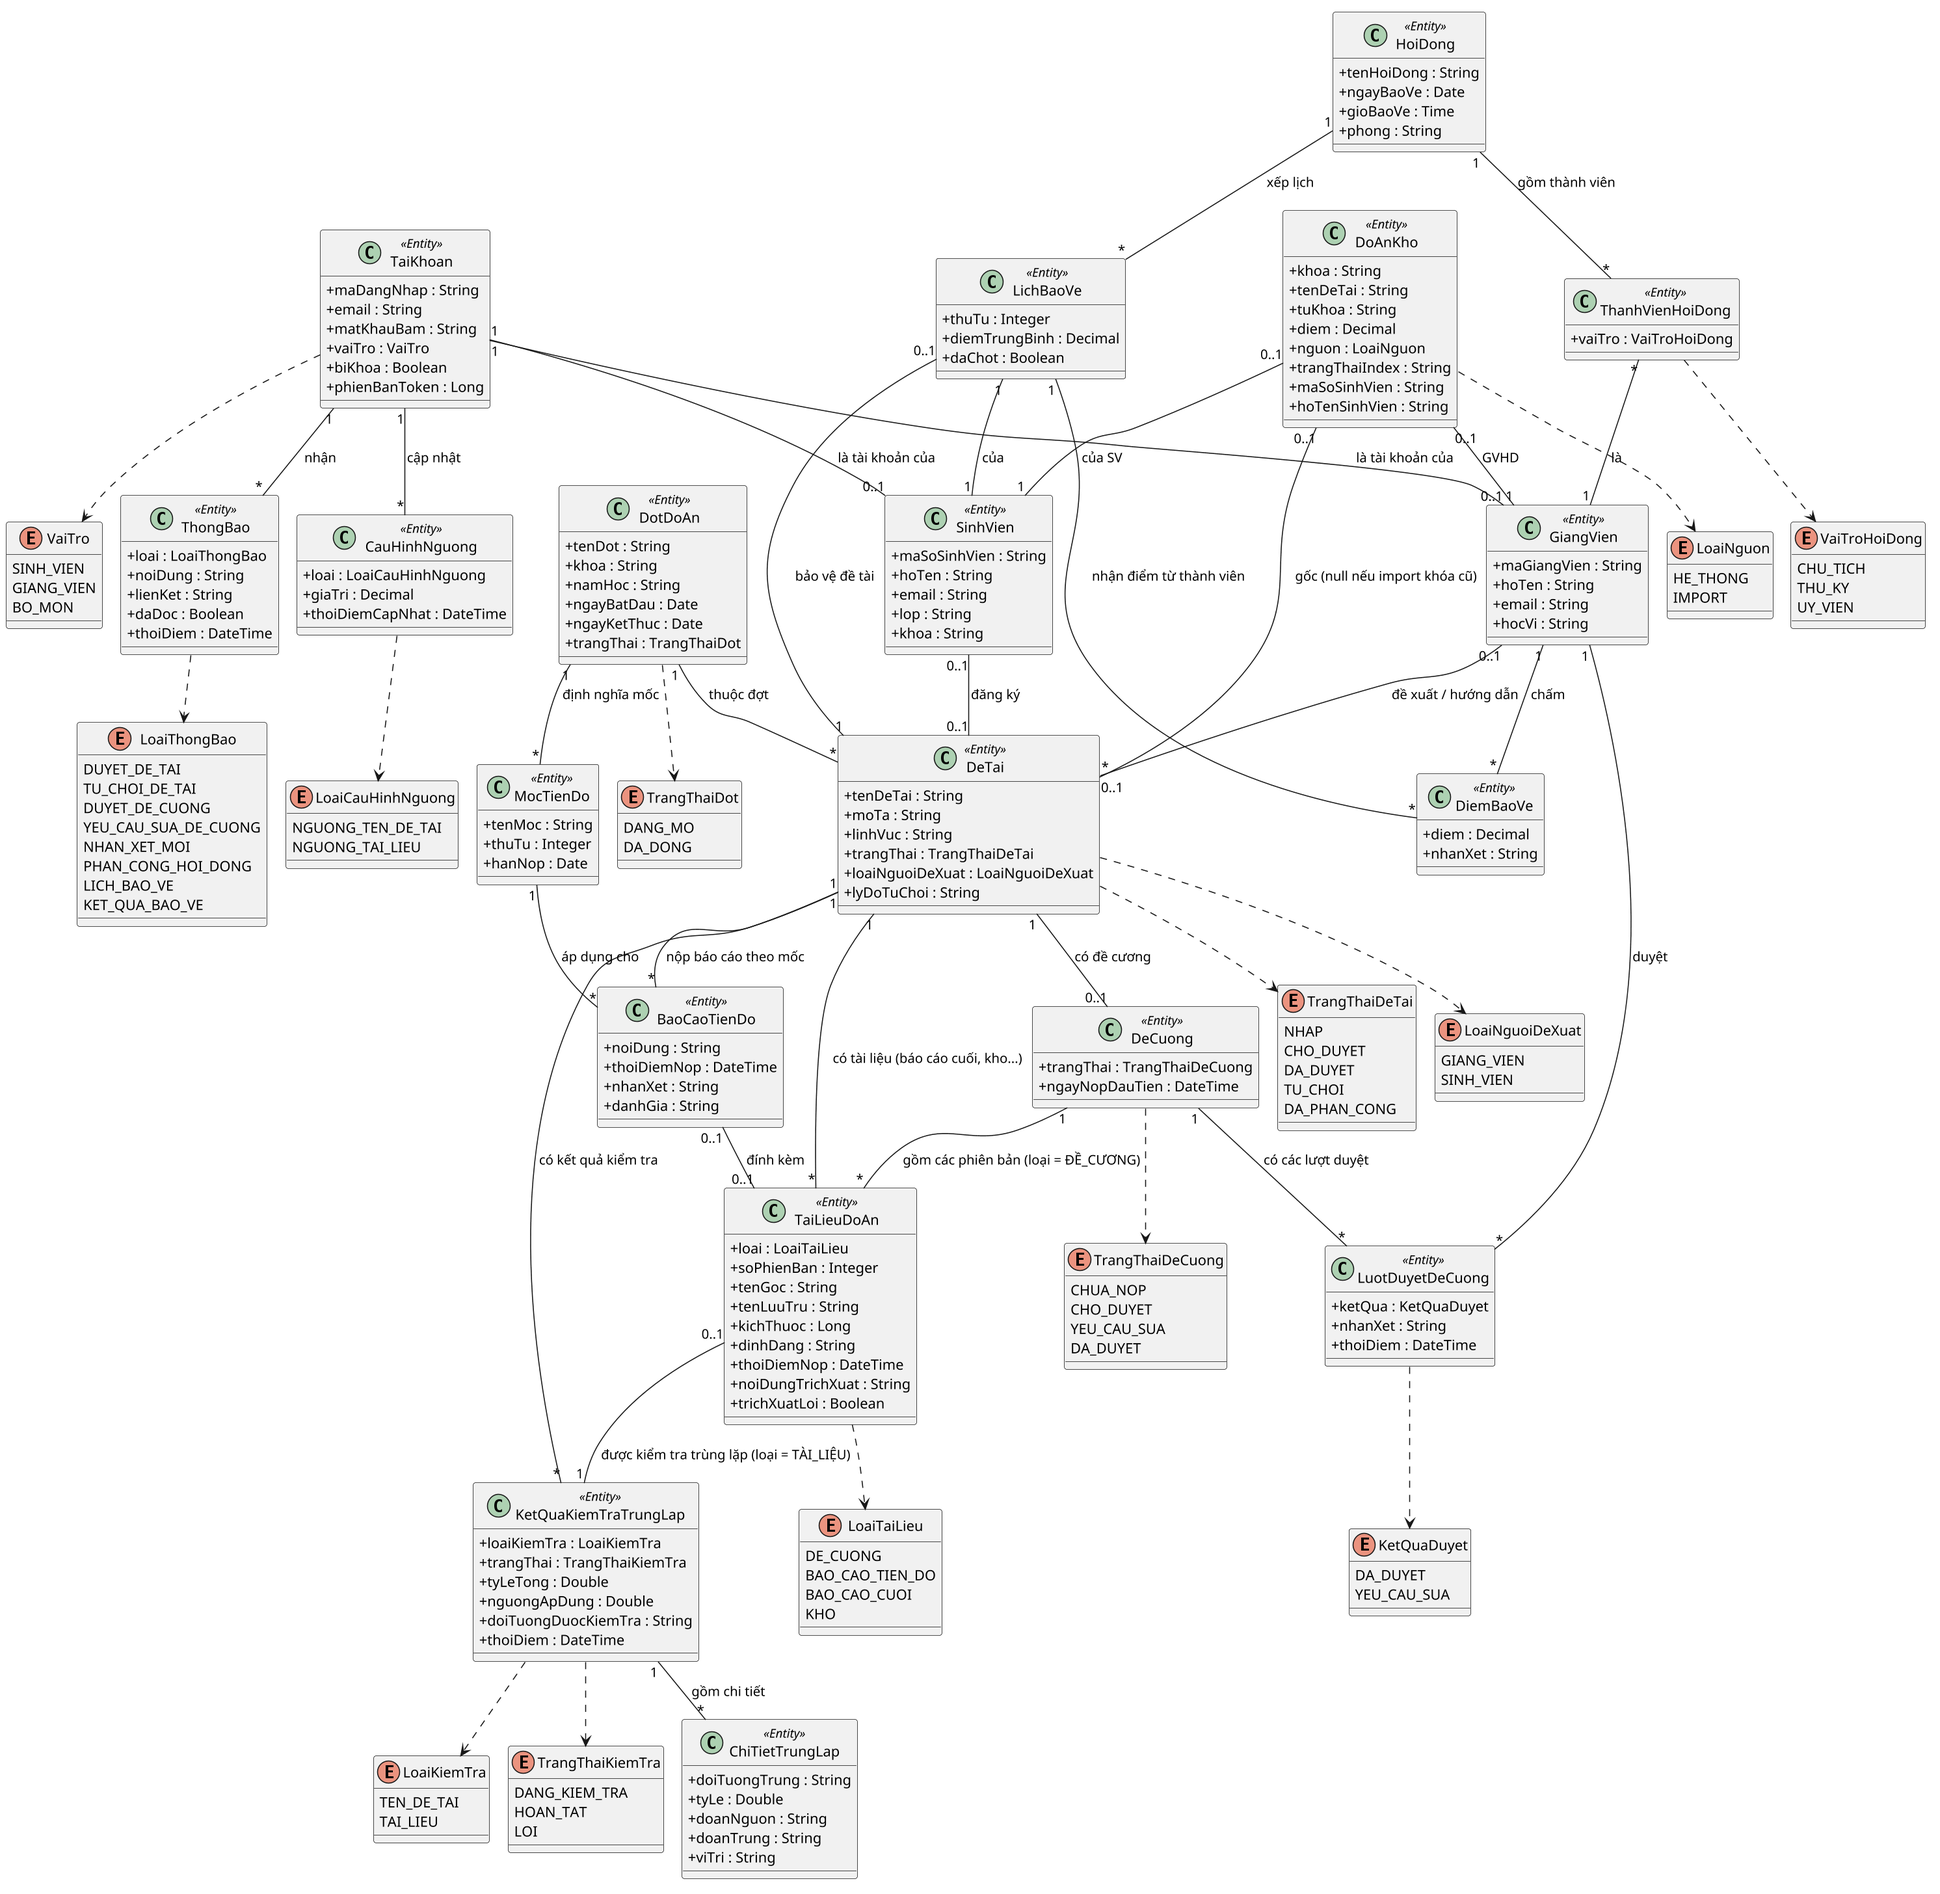
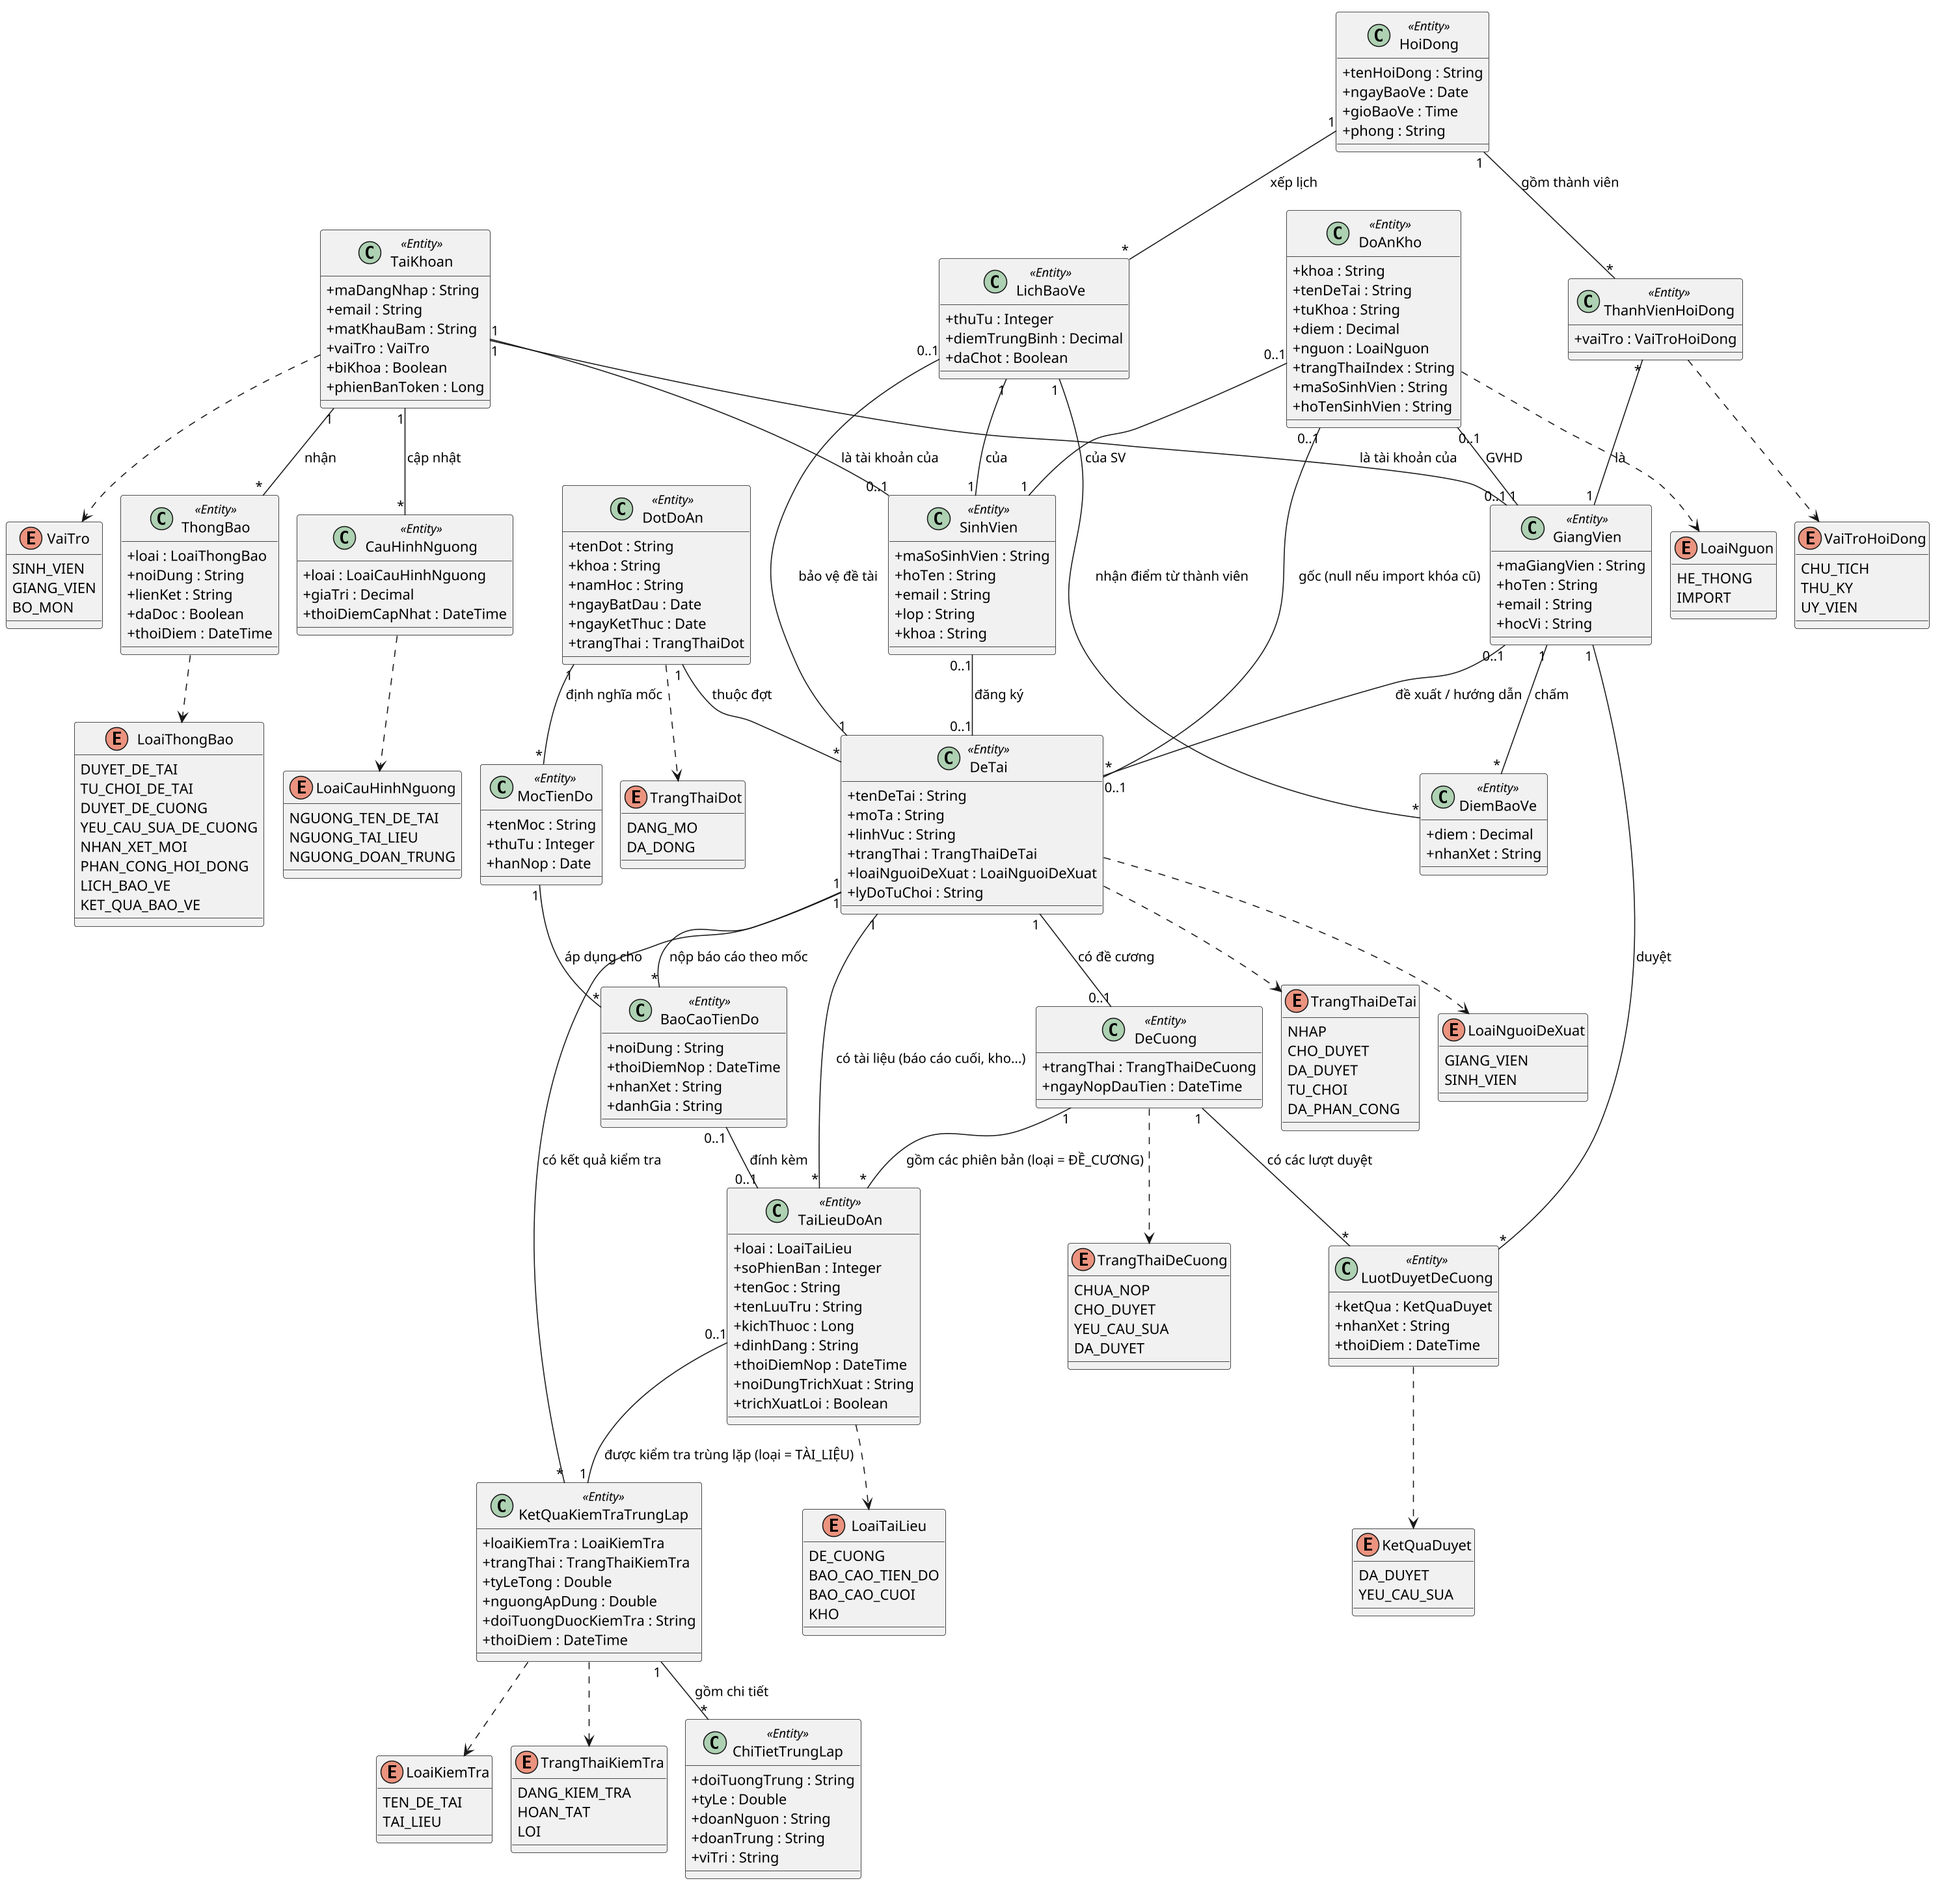
feat(04-05): push-on-write topic indexing, ai_index backfill/purge CLI, index-freshness e2e
- services/ai_index.py: run_ingest_topic (own SessionLocal, TOPIC, NFC title, warn-only), backfill TOPIC/ARCHIVE, purge (empty-text replace, test cleanups only); CLI refuses with exit 2 unless AI_CLIENT=http
- routers/topics.py: create(gui=True) and submit queue run_ingest_topic after commit
- seed-ai.sh runs backfill after the import; e2e-ai.sh ai_index: new K97 archive record DA_INDEX with encode_calls +1, next check sees it; SV topic sent for approval visible to the next check; cleanup purges TOPIC/ARCHIVE vectors then deletes K97 rows FK-safe
- e2e-uc1 / e2e-uc2-5 cleanups purge their topic and archive vectors (incl. the record uc2-5 deletes through the API)
- NGUONG_DOAN_TRUNG written back to the class diagram enum and the cau_hinh_nguong dictionary row

diff --git a/backend/app/services/ai_index.py b/backend/app/services/ai_index.py
@@ -1,0 +1,164 @@
+"""AISV-02 / §3.3.8 — đẩy dữ liệu sang chỉ mục của dịch vụ AI ngay khi ghi
+(push-on-write), không bao giờ tính lại cả corpus.
+
+- `run_ingest_topic(de_tai_id)`: chạy trong BackgroundTasks SAU commit khi một
+  đề tài vào CHO_DUYET (tạo với gui=True hoặc gửi bản nháp) — /ingest
+  `{id: de_tai.id, type: TOPIC, text: tên đề tài NFC}` = đúng một lần encode
+  (NFR-11). Lỗi AI chỉ ghi cảnh báo, không bao giờ chặn nghiệp vụ (UC1.1 E2).
+- `backfill(loai)`: đẩy lại mọi đề tài không phải nháp (TOPIC) và mọi bản ghi
+  kho (ARCHIVE). Văn bản không đổi là no-op phía AI, nên chạy lại rẻ và tự
+  chữa khi volume thesis_ai bị xóa.
+- `purge(loai, ids)`: /ingest với text rỗng (REPLACE bằng không có gì) — CHỈ
+  dùng cho phần dọn dẹp của test tự động (e2e) để không để lại vector mồ côi;
+  không luồng nghiệp vụ nào gọi hàm này.
+
+CLI (trong container api, chỉ khi AI_CLIENT=http):
+    python -m app.services.ai_index backfill [--loai TOPIC ARCHIVE]
+    python -m app.services.ai_index purge --loai TOPIC|ARCHIVE|DOCUMENT --ids 1,2,3
+"""
+import argparse
+import logging
+import sys
+
+from sqlalchemy import select, update
+
+from app.core.config import get_settings
+from app.core.db import SessionLocal
+from app.models.de_tai import NHAP, DeTai
+from app.models.kho import CHUA_INDEX, DA_INDEX, DoAnKho
+from app.schemas.common import nfc
+from app.services.ai_client import get_ai_client
+from app.services.archive import ingest_payload
+
+_logger = logging.getLogger(__name__)
+
+LOAI_TOPIC = "TOPIC"
+LOAI_ARCHIVE = "ARCHIVE"
+LOAI_DOCUMENT = "DOCUMENT"
+_COMMIT_EVERY = 50
+
+
+def run_ingest_topic(de_tai_id: int) -> None:
+    """Chạy nền SAU commit — SessionLocal riêng, chỉ id (int) đi qua ranh
+    giới request. Bỏ qua đề tài không còn tồn tại hoặc còn là nháp."""
+    task_db = SessionLocal()
+    try:
+        topic = task_db.get(DeTai, de_tai_id)
+        if topic is None or topic.trang_thai == NHAP:
+            return
+        get_ai_client(task_db).ingest(topic.id, LOAI_TOPIC, nfc(topic.ten_de_tai))
+    except Exception as exc:  # noqa: BLE001 — không bao giờ chặn nghiệp vụ
+        _logger.warning(
+            "ai_index.run_ingest_topic thất bại cho de_tai_id=%s (%s)",
+            de_tai_id,
+            type(exc).__name__,
+        )
+    finally:
+        task_db.close()
+
+
+def _backfill_topics(db) -> tuple[int, int]:
+    client = get_ai_client(db)
+    ok = failed = 0
+    rows = db.execute(select(DeTai.id, DeTai.ten_de_tai).where(DeTai.trang_thai != NHAP)).all()
+    for row in rows:
+        try:
+            client.ingest(row.id, LOAI_TOPIC, nfc(row.ten_de_tai))
+            ok += 1
+        except Exception as exc:  # noqa: BLE001
+            failed += 1
+            _logger.warning("backfill TOPIC %s thất bại (%s)", row.id, type(exc).__name__)
+    return ok, failed
+
+
+def _backfill_archive(db) -> tuple[int, int]:
+    client = get_ai_client(db)
+    ok = failed = 0
+    ids = db.execute(select(DoAnKho.id).order_by(DoAnKho.id)).scalars().all()
+    for n, kho_id in enumerate(ids, start=1):
+        kho = db.get(DoAnKho, kho_id)
+        if kho is None:
+            continue
+        loai, text = ingest_payload(db, kho)
+        try:
+            client.ingest(kho.id, loai, text)
+            state = DA_INDEX
+            ok += 1
+        except Exception as exc:  # noqa: BLE001
+            state = CHUA_INDEX
+            failed += 1
+            _logger.warning("backfill ARCHIVE %s thất bại (%s)", kho_id, type(exc).__name__)
+        db.execute(update(DoAnKho).where(DoAnKho.id == kho_id).values(trang_thai_index=state))
+        if n % _COMMIT_EVERY == 0:
+            db.commit()
+    db.commit()
+    return ok, failed
+
+
+def backfill(loai: list[str]) -> dict[str, tuple[int, int]]:
+    """Trả {loai: (thành công, thất bại)}."""
+    db = SessionLocal()
+    try:
+        result: dict[str, tuple[int, int]] = {}
+        if LOAI_TOPIC in loai:
+            result[LOAI_TOPIC] = _backfill_topics(db)
+        if LOAI_ARCHIVE in loai:
+            result[LOAI_ARCHIVE] = _backfill_archive(db)
+        return result
+    finally:
+        db.close()
+
+
+def purge(loai: str, ids: list[int]) -> tuple[int, int]:
+    """Thay nguồn (loai, id) bằng văn bản rỗng -> không còn chunk nào trong chỉ
+    mục AI. CHỈ dùng cho dọn dẹp của test tự động."""
+    db = SessionLocal()
+    try:
+        client = get_ai_client(db)
+        ok = failed = 0
+        for ref_id in ids:
+            try:
+                client.ingest(ref_id, loai, "")
+                ok += 1
+            except Exception as exc:  # noqa: BLE001
+                failed += 1
+                _logger.warning("purge %s %s thất bại (%s)", loai, ref_id, type(exc).__name__)
+        return ok, failed
+    finally:
+        db.close()
+
+
+def _parse_ids(raw: str) -> list[int]:
+    return [int(part) for part in raw.replace(" ", "").split(",") if part]
+
+
+def main(argv: list[str] | None = None) -> int:
+    parser = argparse.ArgumentParser(prog="python -m app.services.ai_index")
+    sub = parser.add_subparsers(dest="lenh", required=True)
+    p_backfill = sub.add_parser("backfill", help="đẩy lại đề tài (TOPIC) và kho (ARCHIVE)")
+    p_backfill.add_argument(
+        "--loai", nargs="+", choices=[LOAI_TOPIC, LOAI_ARCHIVE], default=[LOAI_TOPIC, LOAI_ARCHIVE]
+    )
+    p_purge = sub.add_parser("purge", help="xóa nguồn khỏi chỉ mục AI (chỉ cho test)")
+    p_purge.add_argument("--loai", required=True, choices=[LOAI_TOPIC, LOAI_ARCHIVE, LOAI_DOCUMENT])
+    p_purge.add_argument("--ids", required=True, help="danh sách id, phân cách bằng dấu phẩy")
+    args = parser.parse_args(argv)
+
+    if get_settings().AI_CLIENT != "http":
+        print("Từ chối: AI_CLIENT không phải 'http' (bộ giả lập không có chỉ mục)", file=sys.stderr)
+        return 2
+
+    if args.lenh == "backfill":
+        for loai, (ok, failed) in backfill(args.loai).items():
+            print(f"backfill {loai}: {ok} thành công, {failed} lỗi")
+        return 0
+
+    ids = _parse_ids(args.ids)
+    ok, failed = purge(args.loai, ids)
+    print(f"purge {args.loai}: {ok} thành công, {failed} lỗi")
+    return 0
+
+
+if __name__ == "__main__":
+    logging.basicConfig(level=logging.WARNING)
+    sys.exit(main())

diff --git a/backend/app/routers/topics.py b/backend/app/routers/topics.py
@@ -1,6 +1,6 @@
 from typing import Literal
 
-from fastapi import APIRouter, Depends, Query
+from fastapi import APIRouter, BackgroundTasks, Depends, Query
 from sqlalchemy.orm import Session
 
 from app.core.db import get_db
@@ -17,6 +17,7 @@ from app.schemas.topics import (
     TopicOut,
     TopicUpdate,
 )
+from app.services import ai_index
 from app.services import title_check as title_check_service
 from app.services import topics as topics_service
 
@@ -61,10 +62,16 @@ def list_topics(
 @router.post("", response_model=TopicOut, status_code=201)
 def create_topic(
     payload: TopicCreate,
+    background_tasks: BackgroundTasks,
     user: CurrentUser = Depends(require_role(VaiTro.SINH_VIEN, VaiTro.GIANG_VIEN)),
     db: Session = Depends(get_db),
 ) -> TopicOut:
-    return topics_service.create_topic(db, user, payload)
+    out = topics_service.create_topic(db, user, payload)
+    if payload.gui:
+        # AISV-02 push-on-write: đề tài vừa vào CHO_DUYET được index sau commit
+        # (một lần encode) — lần kiểm tra tên kế tiếp đã thấy nó.
+        background_tasks.add_task(ai_index.run_ingest_topic, out.id)
+    return out
 
 
 @router.put("/{topic_id}", response_model=TopicOut)
@@ -80,10 +87,14 @@ def update_topic(
 @router.post("/{topic_id}/submit", response_model=TopicOut)
 def submit_topic(
     topic_id: int,
+    background_tasks: BackgroundTasks,
     user: CurrentUser = Depends(require_role(VaiTro.SINH_VIEN, VaiTro.GIANG_VIEN)),
     db: Session = Depends(get_db),
 ) -> TopicOut:
-    return topics_service.submit_topic(db, user, topic_id)
+    out = topics_service.submit_topic(db, user, topic_id)
+    # AISV-02 push-on-write: bản nháp vừa gửi (CHO_DUYET) được index sau commit.
+    background_tasks.add_task(ai_index.run_ingest_topic, out.id)
+    return out
 
 
 @router.post("/check-title", response_model=TitleCheckResult)

diff --git a/docs/chuong-3-thiet-ke/02-thiet-ke-csdl.md b/docs/chuong-3-thiet-ke/02-thiet-ke-csdl.md
@@ -246,7 +246,7 @@ Lược đồ `thesis_core` gồm 19 bảng, khớp 1-1 với 19 lớp thực th
 | Cột | Kiểu | Null | Khóa | Mô tả |
 |---|---|---|---|---|
 | id | BIGINT | Không | PK | Định danh cấu hình |
-| loai | VARCHAR(30) | Không | UNIQUE | `NGUONG_TEN_DE_TAI` / `NGUONG_TAI_LIEU` — mỗi loại đúng 1 dòng hiện hành |
+| loai | VARCHAR(30) | Không | UNIQUE | `NGUONG_TEN_DE_TAI` / `NGUONG_TAI_LIEU` / `NGUONG_DOAN_TRUNG` (ngưỡng ngữ nghĩa từng đoạn, Phase 4) — mỗi loại đúng 1 dòng hiện hành; giá trị mặc định lấy từ hiệu chỉnh (Alembic 0010: 67,8 / 10,4 / 67,7) |
 | gia_tri | DECIMAL(5,2) | Không | — | Giá trị ngưỡng % (0–100, FR-AI-05) |
 | tai_khoan_id | BIGINT | Có | FK → tai_khoan | Người (Bộ môn) cập nhật lần gần nhất |
 | thoi_diem_cap_nhat | DATETIME | Không | — | Thời điểm lưu cấu hình |
